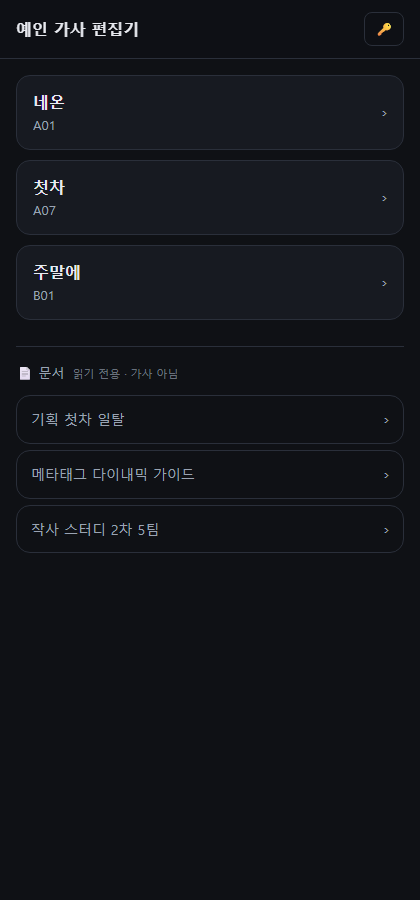
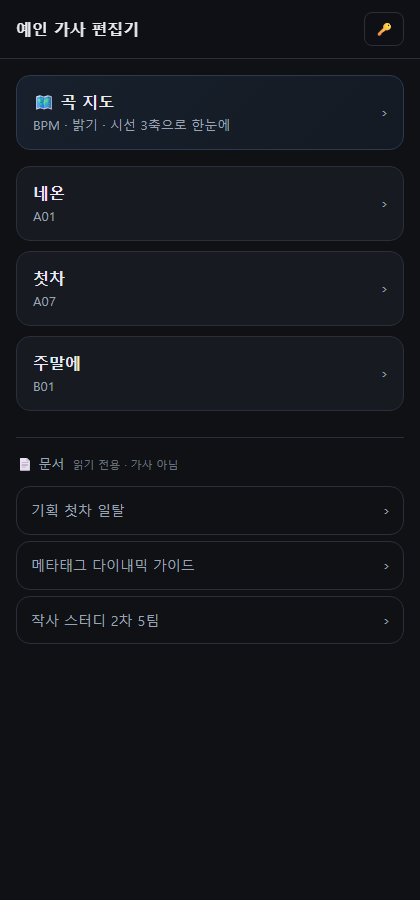
곡 지도 — BPM×밝기×시선 3축 산점도 + 표
lyrics/_map.json 하나만 읽는다. 곡을 추가하면 그래프와 표가 같이 갱신된다.
외부 3D 라이브러리 없이 회전행렬 + 원근 투영만 직접 쓴다.

 - 목록 맨 위 '🗺 곡 지도' 버튼으로 진입
 - 단위 정육면체 뼈대 + 바닥까지 점선 — 있어야 깊이가 읽힌다
 - 드래그로 회전(포인터 이벤트 하나로 마우스·터치 공용), 각도 초기화 버튼
 - 점을 누르면 곡 정보 카드(BPM·밝기·시선·정서·사운드·곡을 닫는 말)
 - 장조는 노랑, 단조는 파랑. 먼 점부터 그려 가까운 게 위에 온다

⚠ 잡은 버그 둘 (둘 다 폰에서 그대로 겪었을 것):

1) 점을 눌러도 무반응. 자식 <g> 의 click 으로 선택을 받으려 했는데,
   pointerdown 에서 setPointerCapture 를 걸면 이후 이벤트가 SVG 로 몰려
   자식의 click 이 아예 안 터진다. → '거의 안 움직이고 뗐으면 탭'으로 보고
   좌표로 직접 히트테스트. 손가락 감안해 반경도 넉넉히.

2) 곡이 가운데 몰리면 라벨이 서로 겹쳐 아무것도 못 읽었다.
   → 앞에 있는 것(선택한 것 먼저)부터 자리를 잡고 겹치면 그 라벨은 버린다.
   선택한 곡 라벨은 겹쳐도 항상 표시. 축 라벨도 축 끝보다 바깥으로 밀어냈다.

test_map_ui.py 신규: 점 개수·축 라벨·정육면체·드래그 회전·각도 초기화·
탭 선택·정보 카드 내용·표 정렬·뒤로가기, 그리고 라벨 겹침을 getBBox 로 실측.

회귀: 지도 / 목록·렌더러 / 비교뷰 / 표절 오버레이 전부 통과, 갤러리 45건 통과

diff --git a/index.html b/index.html
@@ -42,6 +42,26 @@
   /* 문서는 곡보다 한 단계 죽여서, 목록에서 곡이 먼저 눈에 들어오게 한다 */
   .song.doc{background:transparent;padding:11px 14px;margin-bottom:6px}
   .song.doc b{font-size:14px;font-weight:500;color:var(--dim)}
+  /* ---------- 곡 지도 ---------- */
+  .song.mapbtn{background:linear-gradient(135deg,#17202c,#141a23);border-color:#2b3a4e;margin-bottom:16px}
+  .mapwrap{position:relative;background:#0d1117;border:1px solid var(--line);border-radius:14px;
+    overflow:hidden;touch-action:none}
+  #mapSvg{display:block;width:100%;height:auto;cursor:grab}
+  #mapSvg.drag{cursor:grabbing}
+  .maphint{position:absolute;left:10px;bottom:8px;font-size:11px;color:var(--dim);
+    pointer-events:none;opacity:.8}
+  .mapaxes{display:flex;flex-wrap:wrap;align-items:center;gap:10px;margin:10px 0 4px;font-size:11.5px;
+    color:var(--dim)}
+  .mapaxes i{display:inline-block;width:9px;height:9px;border-radius:2px;margin-right:5px;
+    vertical-align:-1px}
+  .mapaxes button{margin-left:auto}
+  .mapinfo{margin:12px 0;padding:13px 15px;background:var(--panel);border:1px solid #2b3a4e;
+    border-radius:12px;font-size:13.5px;line-height:1.7}
+  .mapinfo h4{margin:0 0 6px;font-size:16px}
+  .mapinfo .kv{color:var(--dim)}
+  .mapinfo .close{margin-top:8px;padding-top:8px;border-top:1px solid var(--line)}
+  .mapdot{cursor:pointer}
+  .mapdot:hover circle,.mapdot.on circle{stroke:#fff;stroke-width:2}
   .listsep{display:flex;align-items:baseline;gap:8px;margin:26px 0 12px;
     padding-top:16px;border-top:1px solid var(--line);font-size:13px;color:var(--dim)}
   .listsep span{font-size:11px;opacity:.65}
@@ -191,10 +211,29 @@
   <!-- 곡 목록 -->
   <section id="viewList" class="hide">
     <div class="msg info show" id="listMsg"><span class="spin"></span> 불러오는 중…</div>
+    <button class="song mapbtn" id="btnMap"><div><b>🗺 곡 지도</b>
+      <div class="meta">BPM · 밝기 · 시선 3축으로 한눈에</div></div><span class="arrow">›</span></button>
     <div id="songs"></div>
     <!-- 곡이 아닌 문서(기획·스터디·가이드)는 경계선 아래로 내린다 -->
     <div id="docsSep" class="listsep hide">📄 문서 <span>읽기 전용 · 가사 아님</span></div>
     <div id="docs"></div>
+  </section>
+
+  <!-- 곡 지도: 3축 산점도 + 표 -->
+  <section id="viewMap" class="hide">
+    <div class="msg" id="mapMsg"></div>
+    <div class="mapwrap">
+      <svg id="mapSvg" viewBox="0 0 400 400" aria-label="곡 지도"></svg>
+      <div class="maphint">손가락으로 <b>돌려보세요</b> · 점을 누르면 곡 정보</div>
+    </div>
+    <div class="mapaxes">
+      <span><i style="background:#e0574a"></i>X 가로 · BPM</span>
+      <span><i style="background:#4ac07a"></i>Y 세로 · 밝기</span>
+      <span><i style="background:#4a8fe0"></i>Z 깊이 · 시선</span>
+      <button class="btn-sm btn-ghost" id="btnMapReset">각도 초기화</button>
+    </div>
+    <div id="mapInfo" class="mapinfo hide"></div>
+    <div id="mapTable"></div>
   </section>
 
   <!-- 문서 읽기 전용 -->
@@ -261,16 +300,153 @@ function b64e(str){
   return btoa(bin);
 }
 function show(view){
-  ['viewToken','viewList','viewEdit','viewDoc'].forEach(v=>$('#'+v).classList.add('hide'));
+  ['viewToken','viewList','viewEdit','viewDoc','viewMap'].forEach(v=>$('#'+v).classList.add('hide'));
   $('#'+view).classList.remove('hide');
-  $('#btnBack').style.display = (view==='viewEdit'||view==='viewDoc') ? '' : 'none';
+  $('#btnBack').style.display = (view==='viewList'||view==='viewToken') ? 'none' : '';
 }
+
+/* 곡 지도 — 열기 · 각도 초기화 · 드래그 회전(포인터 이벤트 하나로 마우스·터치 같이 받는다) */
+$('#btnMap').onclick = openMap;
+$('#btnMapReset').onclick = () => { mapYaw = MAP_YAW0; mapPitch = MAP_PITCH0; mapDraw(); };
+/* ⚠ 점 선택을 자식 <g> 의 click 으로 받으면 안 된다 —
+   pointerdown 에서 setPointerCapture 를 걸면 이후 이벤트가 SVG 로 몰려서
+   점의 click 이 아예 안 터진다(폰에서 점을 눌러도 무반응). 그래서
+   '거의 안 움직이고 뗐으면 탭'으로 보고 좌표로 직접 히트테스트한다. */
+(function(){
+  const el = $('#mapSvg');
+  let on = false, px = 0, py = 0, moved = 0;
+  const toSvg = e => { const b = el.getBoundingClientRect();
+    return { x: (e.clientX - b.left) / b.width * 400, y: (e.clientY - b.top) / b.height * 400 }; };
+  el.addEventListener('pointerdown', e => {
+    on = true; moved = 0; px = e.clientX; py = e.clientY;
+    el.setPointerCapture(e.pointerId);
+  });
+  el.addEventListener('pointermove', e => {
+    if(!on) return;
+    const dx = e.clientX - px, dy = e.clientY - py; px = e.clientX; py = e.clientY;
+    moved += Math.abs(dx) + Math.abs(dy);
+    if(moved < 5) return;                       // 손 떨림은 회전으로 치지 않는다
+    el.classList.add('drag');
+    mapYaw += dx * 0.011;
+    mapPitch = Math.max(-1.2, Math.min(1.2, mapPitch + dy * 0.009));
+    mapDraw();
+  });
+  const end = e => {
+    if(!on) return;
+    on = false; el.classList.remove('drag');
+    if(moved >= 5) return;                      // 돌린 것이면 선택 아님
+    const q = toSvg(e);
+    let best = null, bd = 1e9;
+    for(const d of mapDots){                    // 손가락이 굵으므로 반경을 넉넉히 잡는다
+      const dist = Math.hypot(d.X - q.x, d.Y - q.y);
+      if(dist < Math.max(d.r + 12, 18) && dist < bd){ bd = dist; best = d.id; }
+    }
+    mapPick = best;                             // 빈 곳을 누르면 선택 해제
+    mapDraw(); mapShowInfo();
+  };
+  el.addEventListener('pointerup', end);
+  el.addEventListener('pointercancel', () => { on = false; el.classList.remove('drag'); });
+})();
 
 /* ---------- 마크다운 렌더 (문서 보기 전용) ----------
    원문을 그대로 뿌리니 표가 파이프 범벅으로 보였다. 우리 문서가 실제로 쓰는 문법만
    직접 그린다 — 표·제목·인용·목록·굵게·코드. 외부 라이브러리 없음.
    ⚠ 무조건 escHtml 을 먼저 통과시킨 뒤 서식을 입힌다(원문의 태그가 실행되면 안 됨).
       <br> 만 예외로 되살린다 — 표 안 줄바꿈에 쓴다. */
+/* ---------- 곡 지도: 3축 산점도 ----------
+   lyrics/_map.json 하나만 읽는다. 곡을 추가하면 그래프와 표가 같이 갱신된다.
+   외부 3D 라이브러리 없이 회전행렬 + 원근 투영만 직접 쓴다. */
+let MAP = null, mapYaw = -0.62, mapPitch = 0.42, mapPick = null, mapDots = [];
+const MAP_YAW0 = -0.62, MAP_PITCH0 = 0.42;
+
+const mapNorm = (v, a, b) => (v - a) / (b - a) * 2 - 1;          // → [-1,1]
+function mapProject(x, y, z){
+  const cy = Math.cos(mapYaw),   sy = Math.sin(mapYaw);
+  const x1 =  x * cy - z * sy,   z1 = x * sy + z * cy;           // Y축 회전
+  const cp = Math.cos(mapPitch), sp = Math.sin(mapPitch);
+  const y1 =  y * cp - z1 * sp,  z2 = y * sp + z1 * cp;          // X축 회전
+  const d = 4.2, f = d / (d - z2);                               // 원근
+  return { X: 200 + x1 * f * 105, Y: 200 - y1 * f * 105, depth: z2, f };
+}
+function mapDraw(){
+  if(!MAP) return;
+  const ax = MAP['_축'], S = MAP.songs, g = [];
+  mapDots = [];                                                  // 탭 히트테스트용 좌표 (아래에서 채운다)
+  const C = [[-1,-1,-1],[1,-1,-1],[1,1,-1],[-1,1,-1],[-1,-1,1],[1,-1,1],[1,1,1],[-1,1,1]];
+  const E = [[0,1],[1,2],[2,3],[3,0],[4,5],[5,6],[6,7],[7,4],[0,4],[1,5],[2,6],[3,7]];
+  const P = C.map(c => mapProject(c[0], c[1], c[2]));            // 정육면체가 있어야 공간이 읽힌다
+  E.forEach(([a,b]) => g.push(`<line x1="${P[a].X.toFixed(1)}" y1="${P[a].Y.toFixed(1)}" `
+    + `x2="${P[b].X.toFixed(1)}" y2="${P[b].Y.toFixed(1)}" stroke="#2a3340" stroke-width="1"/>`));
+  const O = mapProject(-1,-1,-1);
+  [[[1,-1,-1],'#e0574a',ax.x.label],[[-1,1,-1],'#4ac07a',ax.y.label],[[-1,-1,1],'#4a8fe0',ax.z.label]]
+    .forEach(([c,col,lab]) => {
+      const q = mapProject(c[0],c[1],c[2]);
+      // 라벨은 축 끝보다 더 바깥에 — 안 그러면 가운데 몰린 곡 점 위에 걸친다
+      const t = mapProject(c[0]===1?1.34:c[0], c[1]===1?1.34:c[1], c[2]===1?1.34:c[2]);
+      g.push(`<line x1="${O.X.toFixed(1)}" y1="${O.Y.toFixed(1)}" x2="${q.X.toFixed(1)}" y2="${q.Y.toFixed(1)}" stroke="${col}" stroke-width="2"/>`);
+      g.push(`<text x="${t.X.toFixed(1)}" y="${t.Y.toFixed(1)}" fill="${col}" font-size="11" text-anchor="middle"`
+        + ` paint-order="stroke" stroke="#0d1117" stroke-width="3">${escHtml(lab)}</text>`);
+    });
+  const pts = S.map(s => ({ s, p: mapProject(mapNorm(s.bpm, ax.x.min, ax.x.max),
+                                             mapNorm(s.bright, ax.y.min, ax.y.max),
+                                             mapNorm(s.gaze, ax.z.min, ax.z.max)) }))
+               .sort((a,b) => a.p.depth - b.p.depth);              // 먼 것부터 그린다
+  pts.forEach(({s,p}) => {
+    const r = +(6.5 * p.f).toFixed(1);
+    const col = s.key === 'major' ? '#f0b429' : '#6ea8fe';
+    mapDots.push({ id: s.id, X: p.X, Y: p.Y, r });
+    const base = mapProject(mapNorm(s.bpm,ax.x.min,ax.x.max), -1, mapNorm(s.gaze,ax.z.min,ax.z.max));
+    g.push(`<line x1="${p.X.toFixed(1)}" y1="${p.Y.toFixed(1)}" x2="${base.X.toFixed(1)}" y2="${base.Y.toFixed(1)}" stroke="#2a3340" stroke-width="1" stroke-dasharray="2 3"/>`);
+    g.push(`<g class="mapdot${mapPick===s.id?' on':''}" data-id="${s.id}">`
+      + `<circle cx="${p.X.toFixed(1)}" cy="${p.Y.toFixed(1)}" r="${r}" fill="${col}" fill-opacity="${(0.5+0.4*p.f/1.5).toFixed(2)}" stroke="#0d1117" stroke-width="1"/></g>`);
+  });
+  /* 라벨은 따로 얹는다. 곡이 몰리면 글자가 겹쳐 아무것도 못 읽으므로
+     앞에 있는 것(선택한 것 먼저)부터 자리를 잡고, 겹치면 그 라벨은 버린다. */
+  const placed = [], lab = [];
+  [...pts].sort((a,b) => (b.s.id===mapPick) - (a.s.id===mapPick) || b.p.depth - a.p.depth)
+    .forEach(({s,p}) => {
+      const r = 6.5 * p.f, w = s.title.length * 12 + 6, h = 14;
+      const box = { x: p.X - w/2, y: p.Y - r - 5 - h, w, h };
+      const hit = placed.some(q => box.x < q.x+q.w && box.x+box.w > q.x && box.y < q.y+q.h && box.y+box.h > q.y);
+      if(hit && s.id !== mapPick) return;
+      placed.push(box);
+      lab.push(`<text x="${p.X.toFixed(1)}" y="${(p.Y - r - 5).toFixed(1)}" fill="${s.id===mapPick?'#fff':'#c9d6e4'}"`
+        + ` font-size="11.5" font-weight="${s.id===mapPick?'700':'400'}" text-anchor="middle"`
+        + ` paint-order="stroke" stroke="#0d1117" stroke-width="3">${escHtml(s.title)}</text>`);
+    });
+  g.push(...lab);
+  $('#mapSvg').innerHTML = g.join('');
+}
+function mapShowInfo(){
+  const s = MAP.songs.find(x => x.id === mapPick), box = $('#mapInfo');
+  if(!s){ box.classList.add('hide'); return; }
+  box.classList.remove('hide');
+  box.innerHTML = `<h4>${escHtml(s.title)} <span class="kv" style="font-size:12px">${escHtml(s.id)} · ${s.bpm} BPM · ${s.key==='major'?'장조':'단조'}</span></h4>`
+    + `<div class="kv">밝기 ${s.bright}/10 · 시선 ${s.gaze}/10 · ${escHtml(s.scene)}</div>`
+    + `<div style="margin-top:6px"><b>${escHtml(s.emotion)}</b></div>`
+    + `<div class="kv" style="margin-top:4px">${escHtml(s.sound)}</div>`
+    + (s.note ? `<div class="kv" style="margin-top:6px">💡 ${escHtml(s.note)}</div>` : '')
+    + `<div class="close">곡을 닫는 말 — <b>${escHtml(s.close)}</b></div>`;
+}
+function mapTable(){
+  const S = [...MAP.songs].sort((a,b) => a.bpm - b.bpm);
+  $('#mapTable').innerHTML = '<div class="listsep" style="margin-top:22px">📋 표로 보기 <span>느린 순서</span></div>'
+    + '<div class="docbody" style="padding:0;border:0;background:transparent"><div class="tablewrap"><table>'
+    + '<thead><tr><th>곡</th><th>BPM</th><th>밝기</th><th>시선</th><th>정서</th></tr></thead><tbody>'
+    + S.map(s => `<tr><td><b>${escHtml(s.title)}</b></td><td>${s.bpm}${s.key==='major'?' · 장':''}</td>`
+        + `<td>${s.bright}</td><td>${s.gaze}</td><td>${escHtml(s.emotion)}</td></tr>`).join('')
+    + '</tbody></table></div></div>';
+}
+async function openMap(){
+  show('viewMap'); $('#hdr').textContent='곡 지도';
+  if(MAP){ mapDraw(); mapTable(); return; }
+  msg($('#mapMsg'),'<span class="spin"></span> 불러오는 중…','info');
+  try{
+    MAP = await ghRaw(`/repos/${OWNER}/${REPO}/contents/lyrics/_map.json?ref=main`);
+    hideMsg($('#mapMsg')); mapDraw(); mapTable();
+  }catch(e){ msg($('#mapMsg'),'지도 데이터를 못 읽었어요: '+escHtml(e.message),'err'); }
+}
+
 function mdInline(s){
   return s
     .replace(/`([^`]+)`/g, '<code>$1</code>')

diff --git a/test_map_ui.py b/test_map_ui.py
@@ -1,0 +1,118 @@
+# 곡 지도(3축 산점도) 스모크 — 점이 그려지고, 돌아가고, 눌러서 정보가 뜨는지
+#   python test_map_ui.py <_map.json> [출력폴더]
+import base64, json, sys, threading, http.server, functools, socketserver
+from pathlib import Path
+from playwright.sync_api import sync_playwright
+
+HERE = Path(__file__).parent
+MAP_RAW = Path(sys.argv[1]).read_text(encoding="utf-8")
+MAP = json.loads(MAP_RAW)
+outdir = Path(sys.argv[2]) if len(sys.argv) > 2 else HERE / "_maptest"
+outdir.mkdir(exist_ok=True)
+N = len(MAP["songs"])
+
+b64 = lambda s: base64.b64encode(s.encode()).decode()
+Handler = functools.partial(http.server.SimpleHTTPRequestHandler, directory=str(HERE))
+Handler.log_message = lambda *a, **k: None
+srv = socketserver.TCPServer(("127.0.0.1", 0), Handler)
+threading.Thread(target=srv.serve_forever, daemon=True).start()
+CORS = {"Access-Control-Allow-Origin": "*", "Access-Control-Allow-Headers": "*"}
+
+def handle(route, request):
+    u = request.url
+    if "_map.json" in u:
+        if "vnd.github.raw" in (request.headers.get("accept") or ""):
+            return route.fulfill(status=200, headers=CORS, content_type="application/json", body=MAP_RAW)
+        body = json.dumps({"sha": "s", "content": b64(MAP_RAW)})
+    elif u.rstrip("/").endswith("contents/lyrics"):
+        body = json.dumps([{"name": "A01_네온.md", "path": "lyrics/A01_네온.md", "type": "file"}])
+    else:
+        body = json.dumps({"sha": "s", "content": b64("## 가사\n\n```\n[Verse]\n테스트\n```\n")})
+    route.fulfill(status=200, headers=CORS, content_type="application/json", body=body)
+
+fails = []
+def check(c, label):
+    print(("  [OK] " if c else "  [FAIL] ") + label)
+    if not c: fails.append(label)
+
+with sync_playwright() as p:
+    b = p.chromium.launch()
+    ctx = b.new_context(viewport={"width": 430, "height": 1000})
+    ctx.add_init_script("localStorage.setItem('yein_tok','test-token')")
+    ctx.route("**api.github.com/**", handle)
+    pg = ctx.new_page(); errs = []
+    pg.on("pageerror", lambda e: errs.append(str(e)))
+    pg.goto(f"http://127.0.0.1:{srv.server_address[1]}/index.html")
+    pg.wait_for_selector("#btnMap", timeout=15000)
+
+    print("\n[1] 지도가 그려지는가")
+    pg.click("#btnMap")
+    pg.wait_for_selector("#mapSvg .mapdot", timeout=10000)
+    pg.wait_for_timeout(500)
+    check(not errs, f"JS 에러 없음 {errs[:2]}")
+    check(pg.locator("#mapSvg .mapdot").count() == N, f"점 {N}개 (실제 {pg.locator('#mapSvg .mapdot').count()})")
+    # SVG <text> 는 innerText 가 안 잡힌다 — textContent 로 읽어야 한다
+    labels = [t.strip() for t in pg.locator("#mapSvg text").all_text_contents()]
+    for ax in ("BPM", "밝기", "시선"):
+        check(ax in labels, f"축 라벨 '{ax}'")
+    titles = {s["title"] for s in MAP["songs"]}
+    shown = [t for t in labels if t in titles]
+    check(len(shown) >= 5, f"곡 라벨이 최소 5개는 보임 (실제 {len(shown)}개)")
+    # 라벨이 서로 겹치면 아무것도 못 읽는다 — 실제 렌더 박스로 확인
+    boxes = pg.evaluate("""(titles) => [...document.querySelectorAll('#mapSvg text')]
+        .filter(t => titles.includes(t.textContent.trim()))
+        .map(t => { const b = t.getBBox(); return {x:b.x, y:b.y, w:b.width, h:b.height}; })""",
+        list(titles))
+    over = [(i, j) for i in range(len(boxes)) for j in range(i+1, len(boxes))
+            if boxes[i]["x"] < boxes[j]["x"]+boxes[j]["w"] and boxes[i]["x"]+boxes[i]["w"] > boxes[j]["x"]
+            and boxes[i]["y"] < boxes[j]["y"]+boxes[j]["h"] and boxes[i]["y"]+boxes[i]["h"] > boxes[j]["y"]]
+    check(not over, f"곡 라벨끼리 안 겹침 (겹친 쌍 {len(over)})")
+    check(pg.locator("#mapSvg line").count() >= 12, "정육면체 뼈대가 그려짐")
+    pg.screenshot(path=str(outdir / "1_지도.png"), full_page=False)
+
+    print("\n[2] 드래그하면 실제로 돌아가는가")
+    before = pg.locator("#mapSvg .mapdot circle").first.get_attribute("cx")
+    box = pg.locator("#mapSvg").bounding_box()
+    pg.mouse.move(box["x"] + box["width"]/2, box["y"] + box["height"]/2)
+    pg.mouse.down(); pg.mouse.move(box["x"] + box["width"]/2 + 90, box["y"] + box["height"]/2 + 30, steps=8)
+    pg.mouse.up(); pg.wait_for_timeout(300)
+    after = pg.locator("#mapSvg .mapdot circle").first.get_attribute("cx")
+    check(before != after, f"회전 후 좌표가 바뀜 ({before} → {after})")
+    pg.screenshot(path=str(outdir / "2_회전후.png"), full_page=False)
+
+    print("\n[3] 각도 초기화")
+    pg.click("#btnMapReset"); pg.wait_for_timeout(300)
+    check(pg.locator("#mapSvg .mapdot circle").first.get_attribute("cx") == before, "초기화하면 원래 각도로")
+
+    print("\n[4] 점을 누르면 곡 정보가 뜨는가")
+    check(pg.locator("#mapInfo.hide").count() == 1, "처음엔 정보 카드가 숨어 있음")
+    target = pg.locator('#mapSvg .mapdot[data-id="A05"]')
+    check(target.count() == 1, "세 시간(A05) 점이 있음")
+    target.click(); pg.wait_for_timeout(300)
+    info = pg.locator("#mapInfo").inner_text()
+    s5 = next(x for x in MAP["songs"] if x["id"] == "A05")
+    check(pg.locator("#mapInfo.hide").count() == 0, "정보 카드가 열림")
+    check(s5["title"] in info, "제목 표시")
+    check(str(s5["bpm"]) in info, "BPM 표시")
+    check(s5["emotion"] in info, "정서 표시")
+    check(s5["close"] in info, "곡을 닫는 말 표시")
+    # 겹쳐서 숨겨졌더라도 '선택한 곡'의 라벨은 반드시 살아 있어야 한다
+    sel = [t.strip() for t in pg.locator("#mapSvg text").all_text_contents()]
+    check(s5["title"] in sel, "선택한 곡 라벨은 겹쳐도 항상 표시")
+    pg.screenshot(path=str(outdir / "3_점선택.png"), full_page=False)
+
+    print("\n[5] 표도 같이 나오는가")
+    check(pg.locator("#mapTable tbody tr").count() == N, f"표 {N}행")
+    first_bpm = pg.locator("#mapTable tbody tr td:nth-child(2)").first.inner_text()
+    check(str(min(s["bpm"] for s in MAP["songs"])) in first_bpm, "느린 곡부터 정렬")
+
+    print("\n[6] 목록으로 돌아가기")
+    pg.click("#btnBack"); pg.wait_for_selector("#songs button", timeout=10000)
+    check(pg.locator("#viewMap.hide").count() == 1, "지도 화면이 닫힘")
+    check(not errs, f"끝까지 JS 에러 없음 {errs[:2]}")
+    b.close()
+
+srv.shutdown()
+print(f"\n스크린샷: {outdir}")
+print(f"결과: {'전부 통과' if not fails else str(len(fails))+'건 실패 → '+str(fails)}")
+sys.exit(1 if fails else 0)
